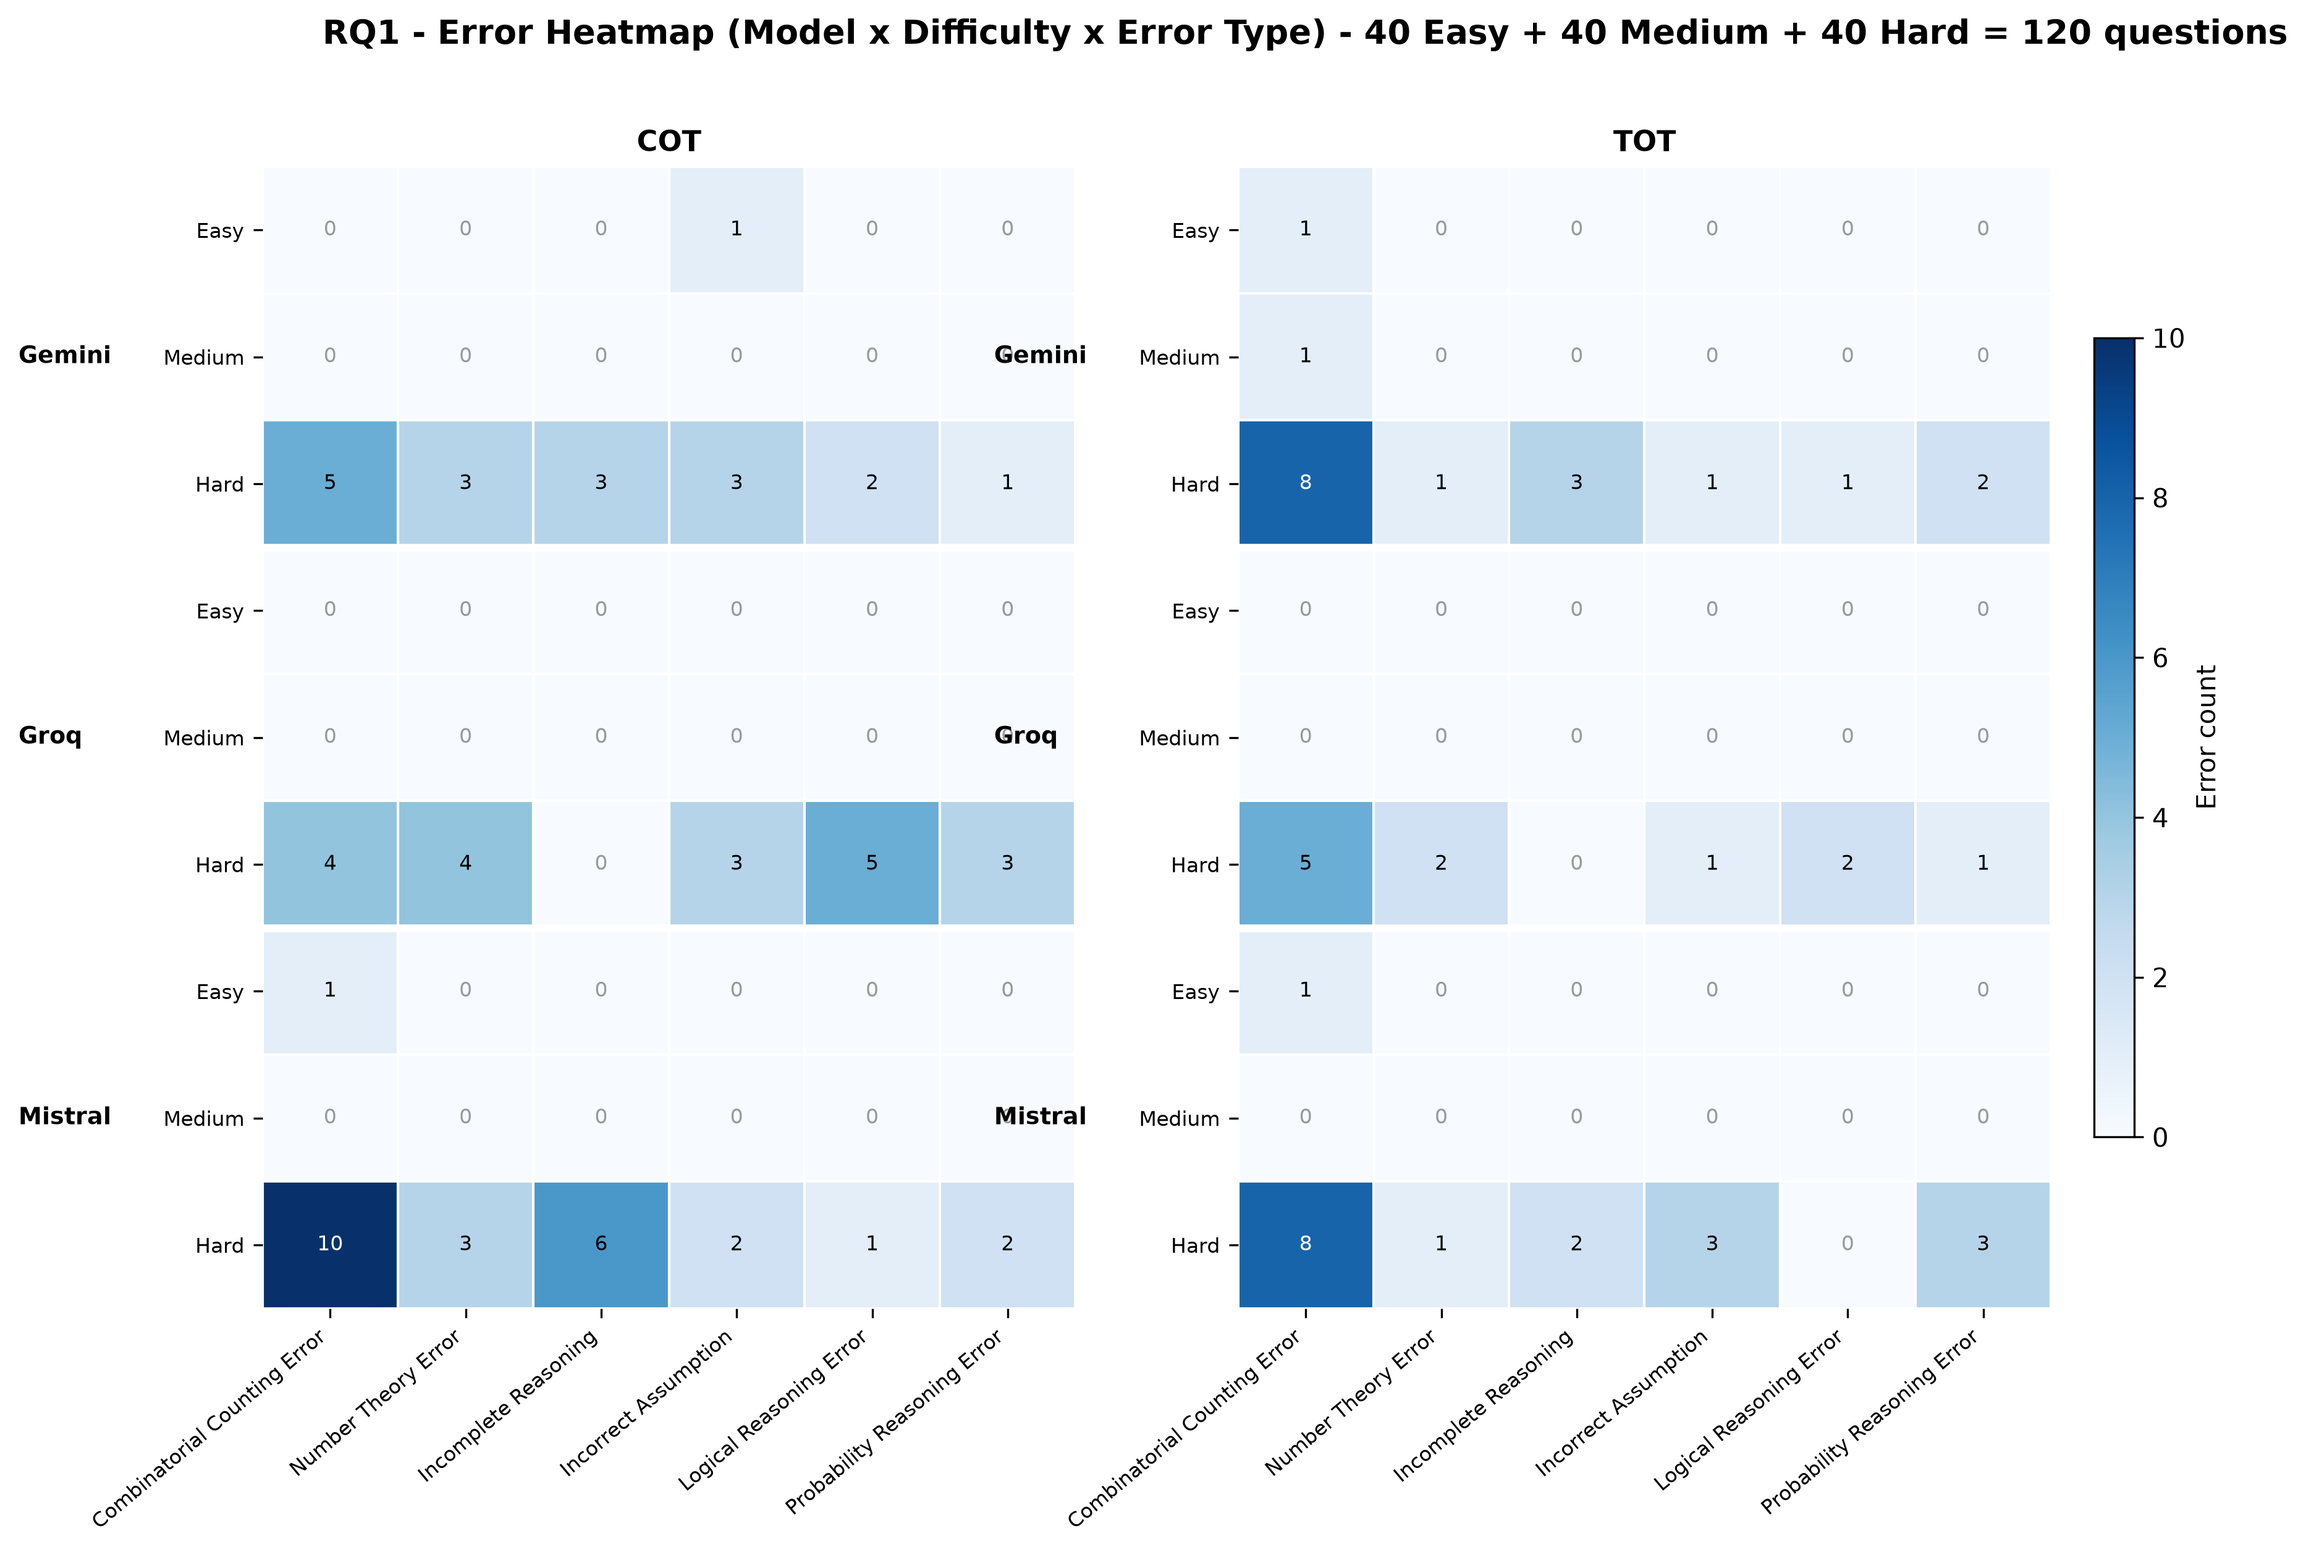
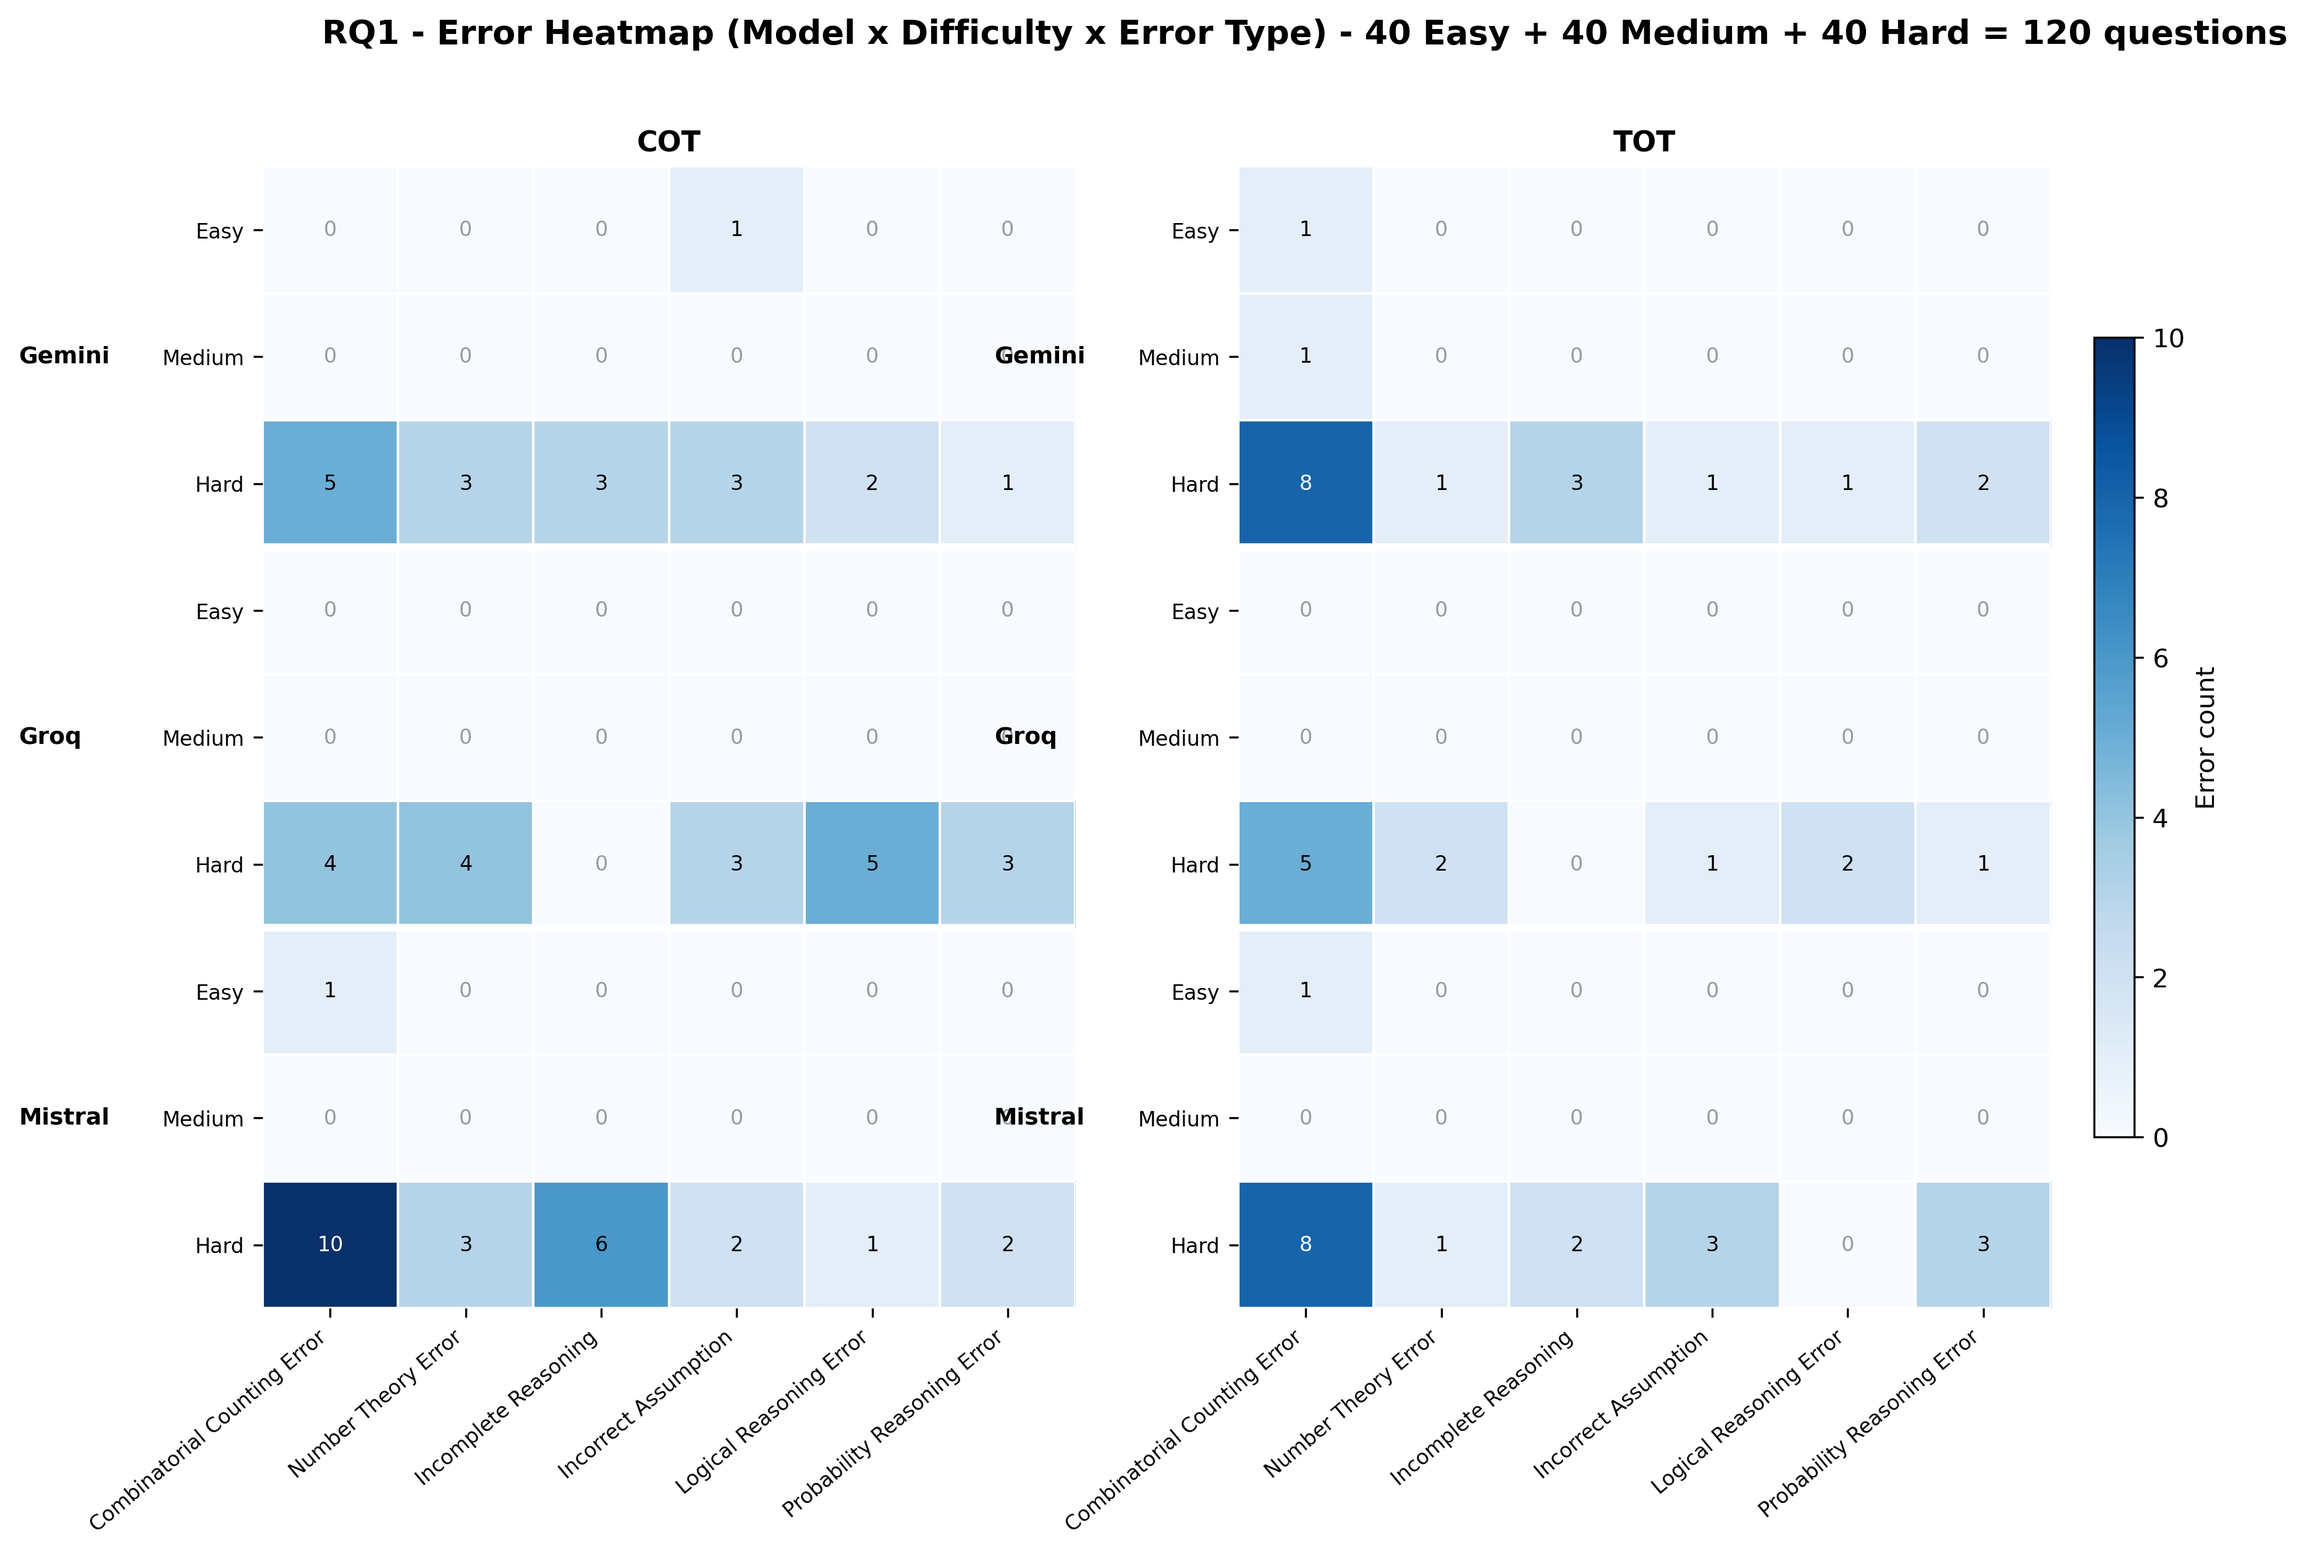
Remove redundant comments and de-duplicate balanced_question_pool()
- answer_evaluator.py: remove section-banner comments; function names
  already convey each section's purpose, no behaviour change.
- Move balanced_question_pool() out of error_type_distribution.py and
  error_heatmap.py (identical logic duplicated in both) into
  question_execution_time.py, where hard_tier_question_pool() already
  lives; both callers now import the shared function instead.

Verified before/after: CSV and PNG outputs from both callers are
byte-identical (error_heatmap.png's small pixel diff was isolated to
pre-existing matplotlib rendering drift, confirmed by running the old
code in the current environment -- unrelated to this change). Full
test suite passes unchanged.

diff --git a/src/evaluation/answer_evaluator.py b/src/evaluation/answer_evaluator.py
@@ -14,11 +14,6 @@ transformations = (
     + (implicit_multiplication_application,)
 )
 
-
-# ==========================================================
-# NORMALIZE ANSWER
-# ==========================================================
-
 def normalize_answer(answer):
 
     if answer is None:
@@ -64,10 +59,6 @@ def normalize_answer(answer):
     return answer
 
 
-# ==========================================================
-# NUMBER CONVERSION
-# ==========================================================
-
 def to_number(value):
 
     # Mixed numbers ("2 1/3") must be checked BEFORE normalize_answer, which
@@ -105,10 +96,6 @@ def to_number(value):
     return None
 
 
-# ==========================================================
-# NUMERIC COMPARISON
-# ==========================================================
-
 def compare_numeric(gt, pred):
 
     gt_num = to_number(gt)
@@ -119,10 +106,6 @@ def compare_numeric(gt, pred):
 
     return math.isclose(gt_num, pred_num, rel_tol=1e-9, abs_tol=1e-9)
 
-
-# ==========================================================
-# ALGEBRAIC COMPARISON
-# ==========================================================
 
 def compare_symbolic(gt, pred):
 
@@ -140,18 +123,10 @@ def compare_symbolic(gt, pred):
         return False
 
 
-# ==========================================================
-# TEXT COMPARISON
-# ==========================================================
-
 def compare_text(gt, pred):
 
     return normalize_answer(gt) == normalize_answer(pred)
 
-
-# ==========================================================
-# MAIN COMPARISON
-# ==========================================================
 
 def is_correct(gt, pred):
 
@@ -166,10 +141,6 @@ def is_correct(gt, pred):
 
     return False
 
-
-# ==========================================================
-# EVALUATE RESPONSE
-# ==========================================================
 
 def evaluate_response(ground_truth, prediction):
 

diff --git a/src/analysis/error_type_distribution.py b/src/analysis/error_type_distribution.py
@@ -11,17 +11,8 @@ import pandas as pd
 
 from config.config import FIGURES_DIR, TABLES_DIR, MODEL_NAMES, PROMPT_TYPES, DIFFICULTIES
 from src.utils.io import load_results
-from src.analysis.question_execution_time import hard_tier_question_pool, MODEL_LABELS
+from src.analysis.question_execution_time import balanced_question_pool, MODEL_LABELS
 from src.analysis.error_definitions import ERROR_TYPE_DEFINITIONS
-
-def balanced_question_pool(df: pd.DataFrame) -> dict:
-    """Same 40/40/40 pool as question_execution_time.py / error_heatmap.py."""
-
-    return {
-        "Easy": sorted(df[df["Difficulty"] == "Easy"]["Question ID"].unique()),
-        "Medium": sorted(df[df["Difficulty"] == "Medium"]["Question ID"].unique()),
-        "Hard": hard_tier_question_pool(df),
-    }
 
 
 def error_type_difficulty_table(df: pd.DataFrame, model: str, prompt: str, pool: dict, error_type_order: list) -> pd.DataFrame:

diff --git a/src/analysis/error_heatmap.py b/src/analysis/error_heatmap.py
@@ -12,22 +12,12 @@ import pandas as pd
 
 from config.config import FIGURES_DIR, MODEL_NAMES, DIFFICULTIES, PROMPT_TYPES
 from src.utils.io import load_results
-from src.analysis.question_execution_time import hard_tier_question_pool
+from src.analysis.question_execution_time import balanced_question_pool
 
 TOP_N = 6
 
 # Sequential single-hue (blue) ramp, light -> dark.
 CMAP = plt.cm.Blues
-
-
-def balanced_question_pool(df: pd.DataFrame) -> dict:
-    """Same 40/40/40 pool used by question_execution_time.py."""
-
-    return {
-        "Easy": sorted(df[df["Difficulty"] == "Easy"]["Question ID"].unique()),
-        "Medium": sorted(df[df["Difficulty"] == "Medium"]["Question ID"].unique()),
-        "Hard": hard_tier_question_pool(df),
-    }
 
 
 def top_error_types(n: int = TOP_N) -> list:

diff --git a/src/analysis/question_execution_time.py b/src/analysis/question_execution_time.py
@@ -35,6 +35,17 @@ def hard_tier_question_pool(df: pd.DataFrame) -> list:
     return sorted(sampled.tolist())
 
 
+def balanced_question_pool(df: pd.DataFrame) -> dict:
+    """Same 40/40/40 pool, keyed by difficulty tier. Shared by
+    error_type_distribution.py and error_heatmap.py."""
+
+    return {
+        "Easy": sorted(df[df["Difficulty"] == "Easy"]["Question ID"].unique()),
+        "Medium": sorted(df[df["Difficulty"] == "Medium"]["Question ID"].unique()),
+        "Hard": hard_tier_question_pool(df),
+    }
+
+
 def plot_execution_time_by_difficulty(prompt: str, df: pd.DataFrame, question_pool: dict) -> None:
     """One panel per difficulty tier, points coloured by model, shared 0-300s Y-axis."""
 
